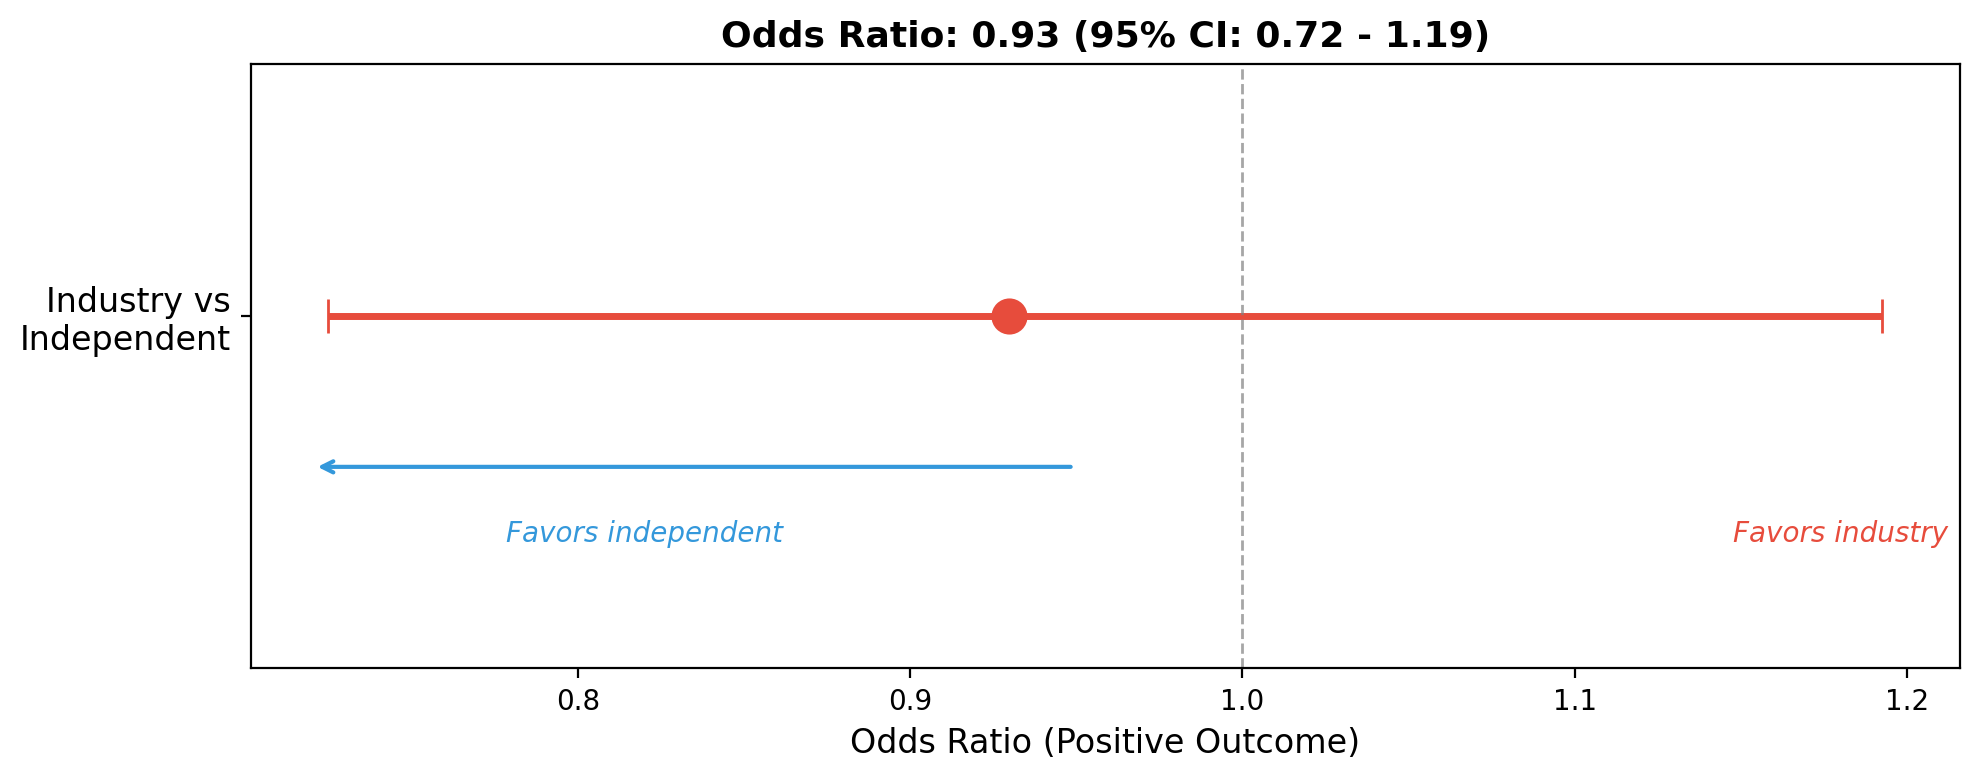
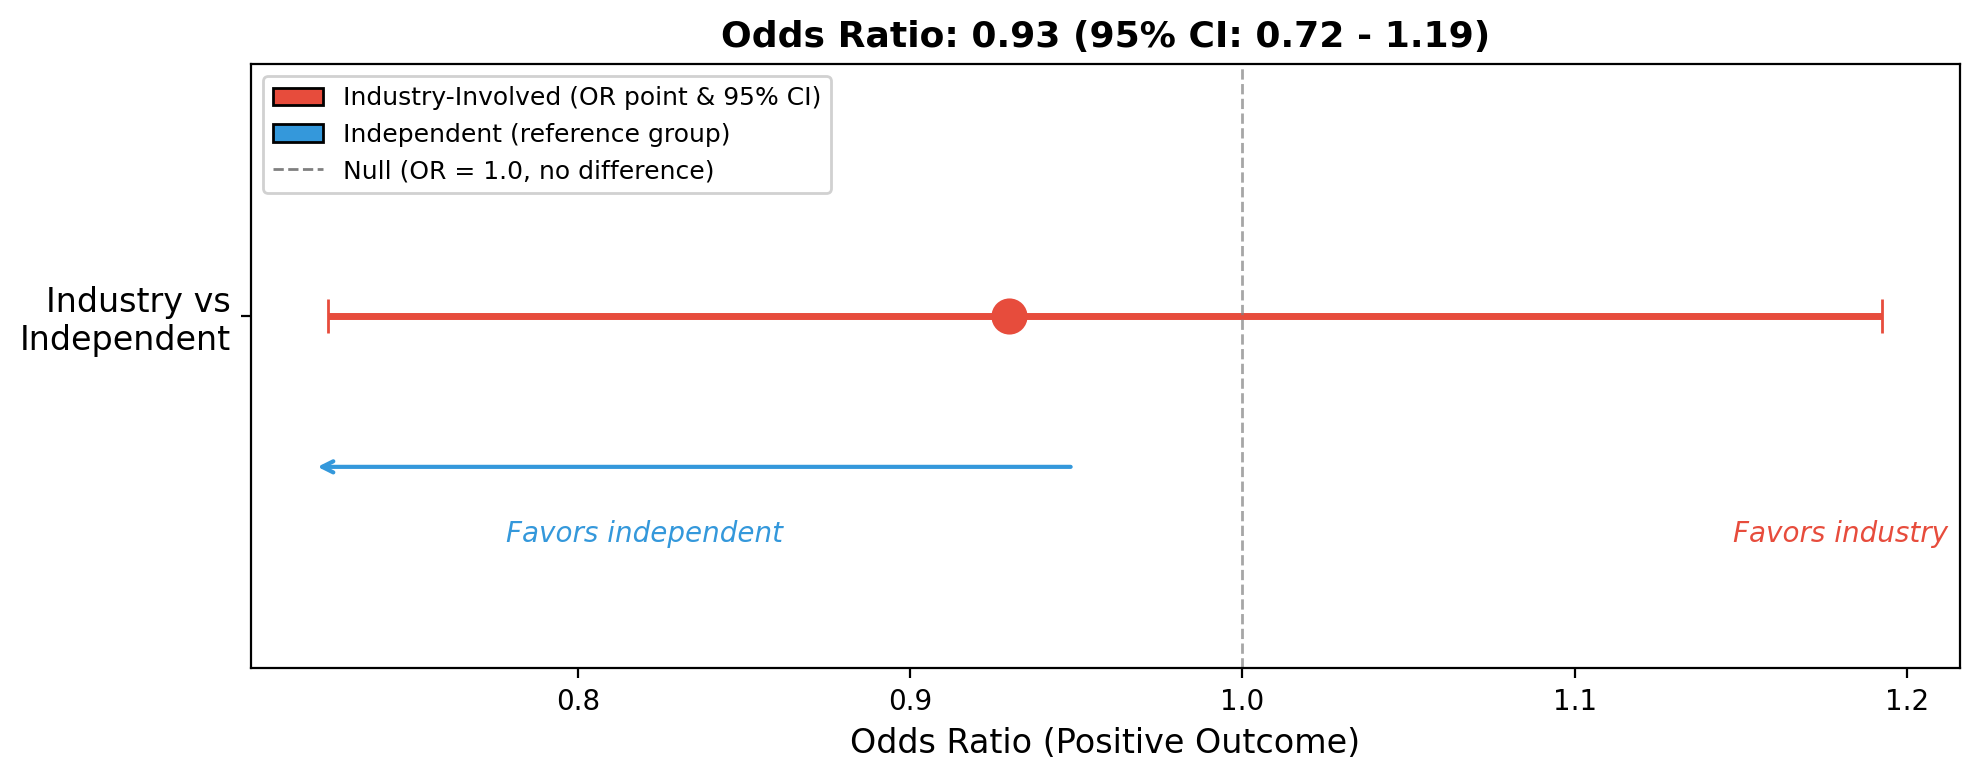
Add color legend to odds ratio forest plot

Changed region(s): [[0.1233, 0.0923, 0.4315, 0.2769]]

diff --git a/part2/viz/plots.py b/part2/viz/plots.py
@@ -272,6 +272,14 @@ def plot_odds_ratio_forest(stats_path: str, output_dir: str):
 
     ax.set_ylim(-0.7, 0.5)
 
+    # Color legend
+    legend_elements = [
+        mpatches.Patch(facecolor=COLORS["industry"], edgecolor="black", label="Industry-Involved (OR point & 95% CI)"),
+        mpatches.Patch(facecolor=COLORS["independent"], edgecolor="black", label="Independent (reference group)"),
+        plt.Line2D([0], [0], color="gray", linestyle="--", linewidth=1, label="Null (OR = 1.0, no difference)"),
+    ]
+    ax.legend(handles=legend_elements, loc="upper left", fontsize=9, framealpha=0.9)
+
     plt.tight_layout()
     plt.savefig(os.path.join(output_dir, "odds_ratio_forest.png"), dpi=200, bbox_inches="tight")
     plt.close()
